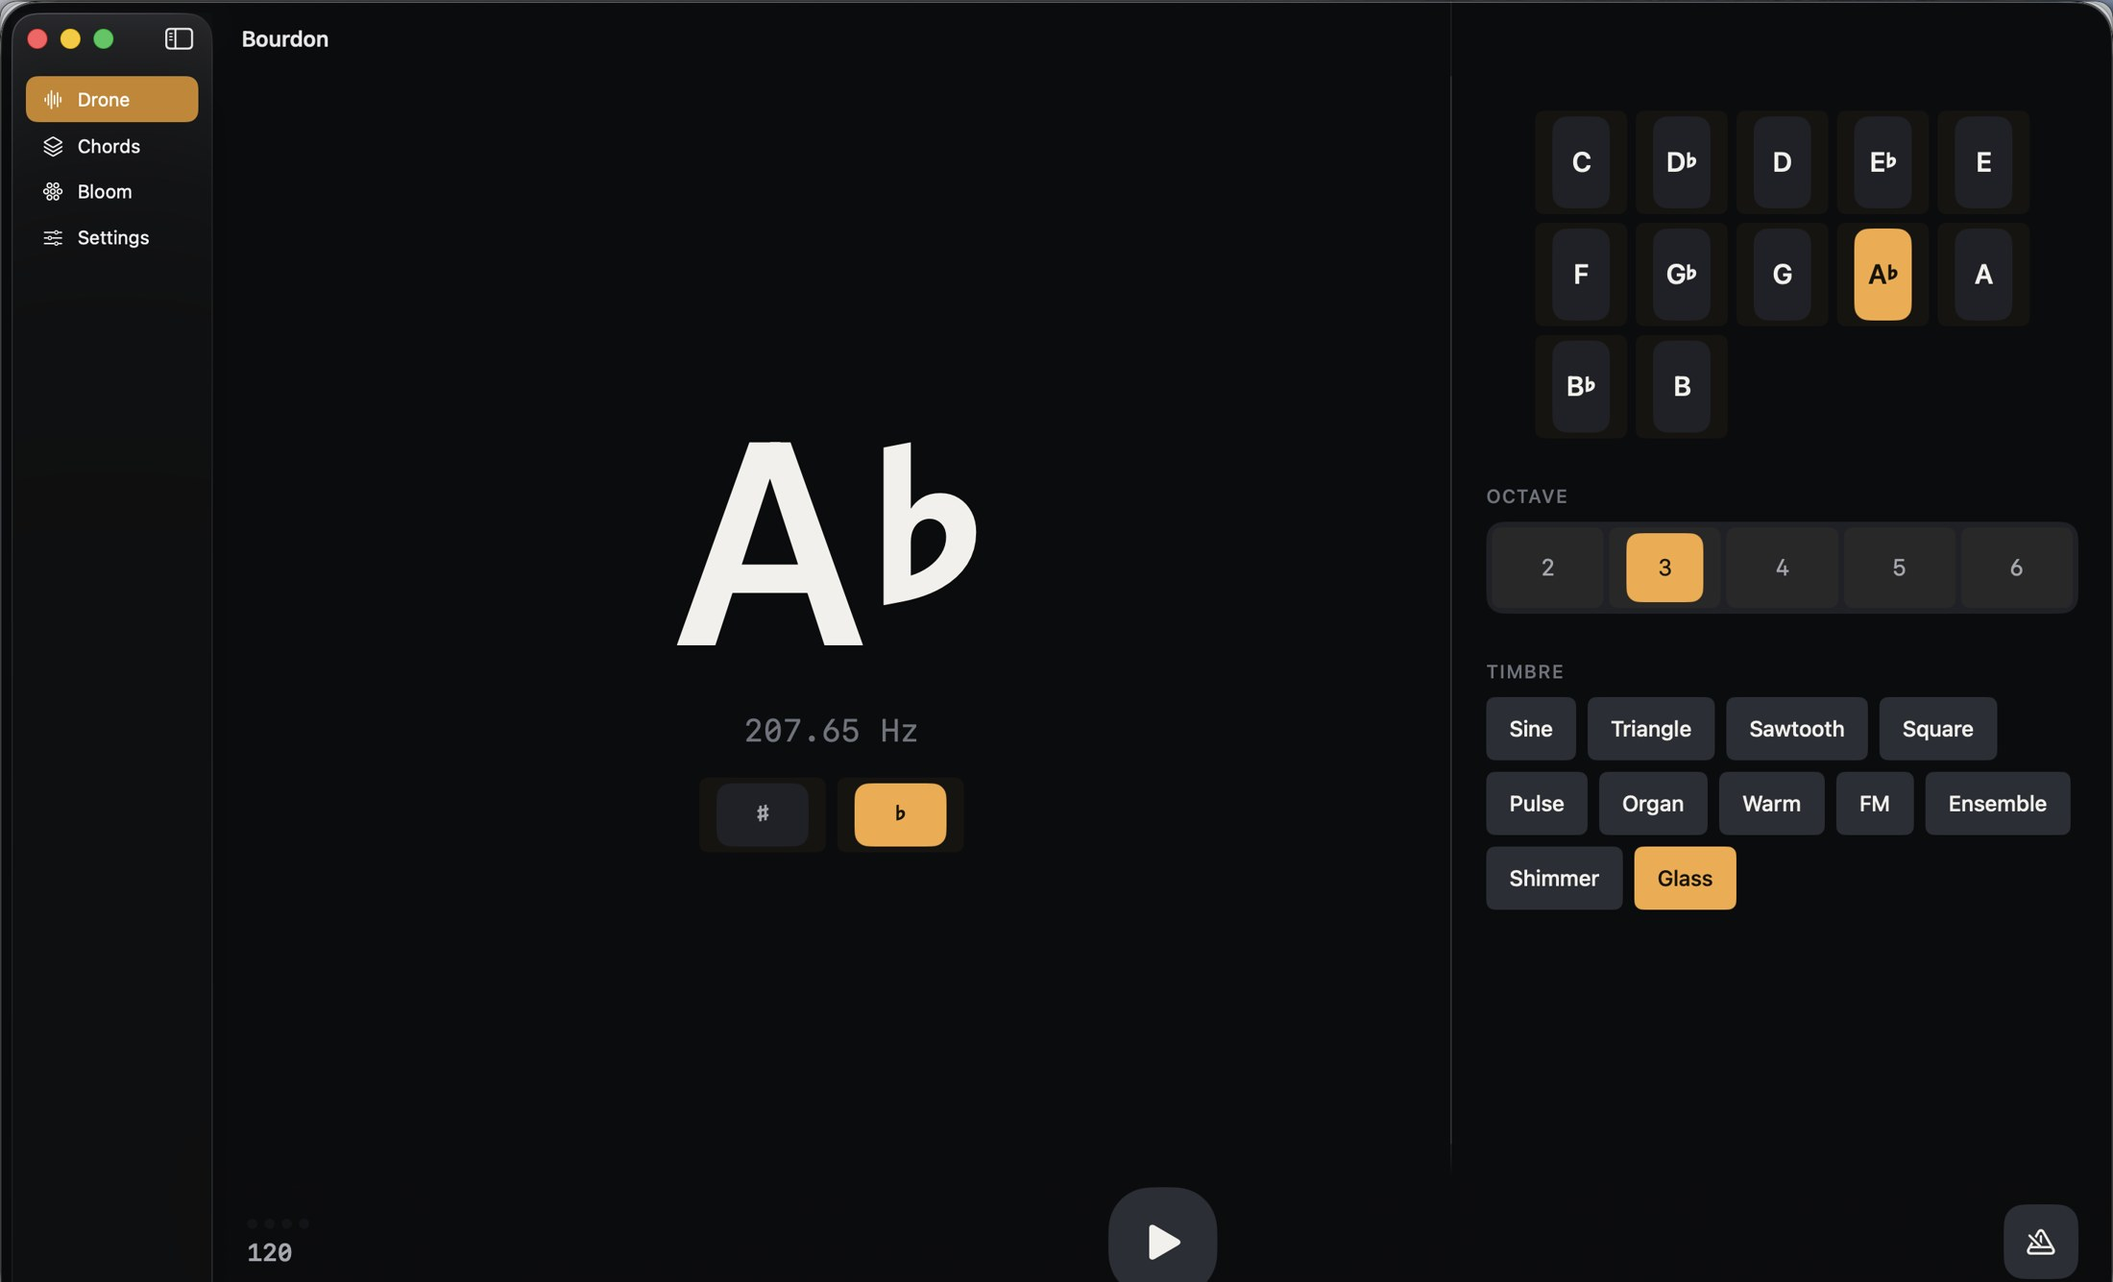
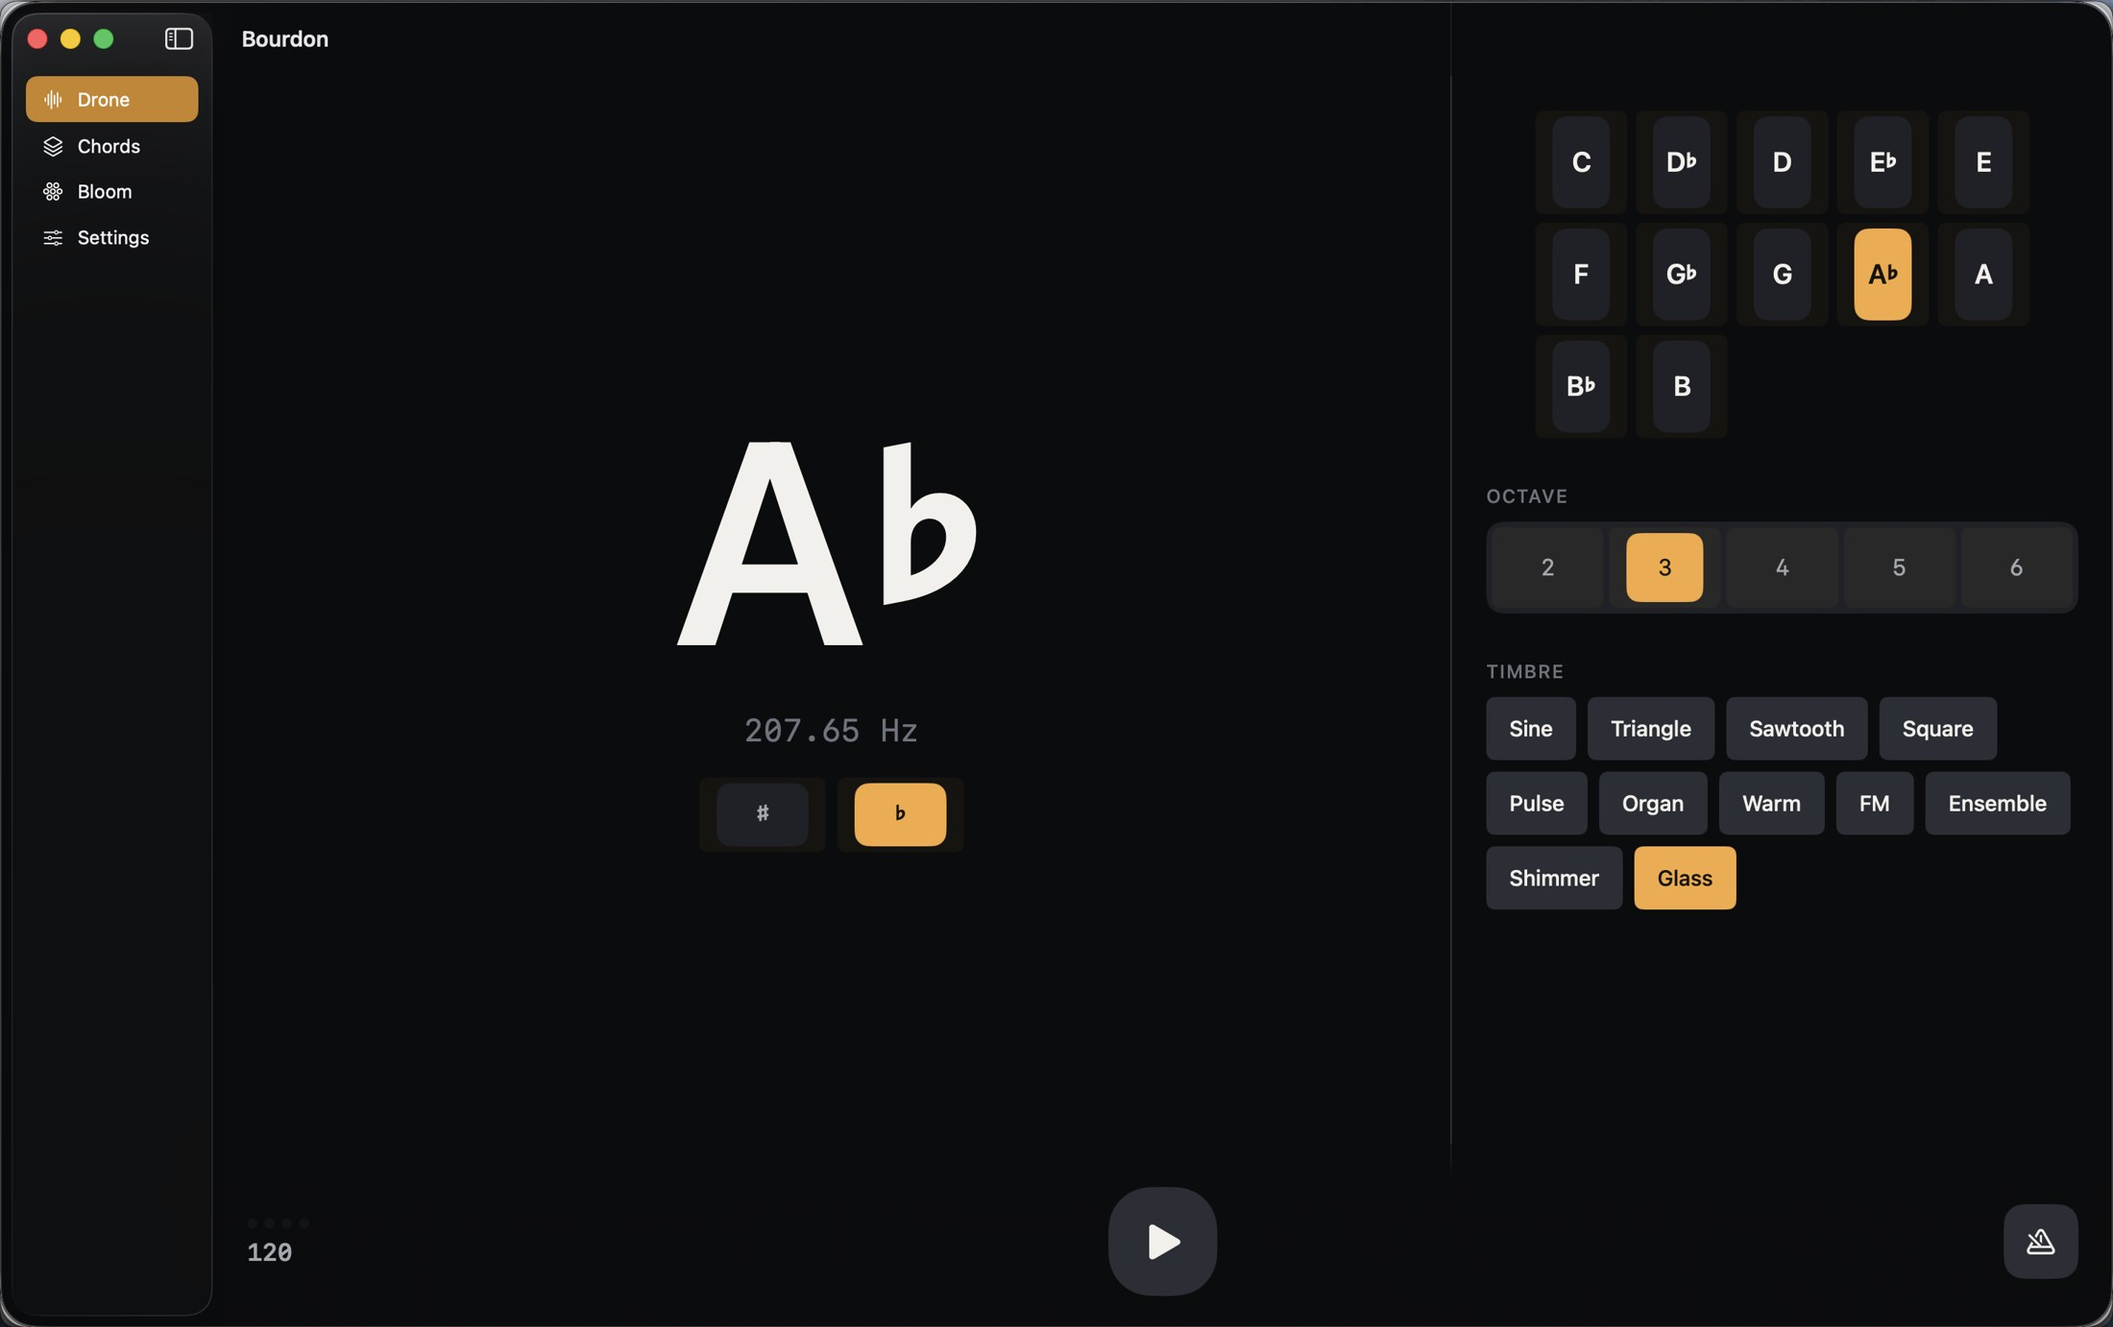
Fix the crop, the price and the count
The Mac screenshots were cut 64px short at the bottom, which took the transport row off every
one of them — I cropped to a bounding box measured on the wrong axis. They now run to the
window's real bottom edge, and the landing-page hero is rebuilt from the corrected crop.

Bourdon is not free. It is one small purchase, priced at launch, with no ads, no subscription,
no in-app purchases and no free tier holding a feature back. The page said "Free" in three
places, including the meta description.

The questions are no longer K7's accordion. Every answer here is two sentences, and hiding two
sentences behind a disclosure asks for a click to save nothing — so they are a two-column grid,
always open, under a different heading. The unused accordion CSS is deleted rather than left
sitting there.

Also: eleven drone timbres, not twelve. The enum has twelve and the drone excludes the piano
arpeggio, which is a chord voice — the screenshot right beside the claim shows eleven.

Claude-Session: https://claude.ai/code/session_01W6vRZs6Q5bzhsr2XMK3UwS

diff --git a/bourdon/index.html b/bourdon/index.html
@@ -3,7 +3,7 @@
 <head>
 <meta charset="UTF-8">
 <title>Bourdon — Drone and chord reference for iPhone, iPad and Mac</title>
-<meta name="description" content="Hold a pitch. Hold a chord. Practise intonation against something that does not move. A drone, 37 chord types in every key, a metronome that can stay silent, and a generative tab that writes itself. No account, no network, free.">
+<meta name="description" content="Hold a pitch. Hold a chord. Practise intonation against something that does not move. A drone, 37 chord types in every key, a metronome that can stay silent, and a generative tab that writes itself. One purchase, no ads, no subscription.">
 <meta name="viewport" content="width=device-width, initial-scale=1">
 <link rel="icon" href="/bourdon/bourdon-icon.png">
 <meta property="og:title" content="Bourdon — Drone and chord reference">
@@ -45,11 +45,11 @@
         that can keep time without making a sound.</p>
       <div class="cta-row">
         <span class="cta"><strong>Coming Soon</strong></span>
-        <span class="cta-note">Free.<br>No account, no subscription.</span>
+        <span class="cta-note">One purchase.<br>No ads, no subscription, no account.</span>
       </div>
       <div class="stats">
         <div class="stat"><b>37</b><span>CHORD TYPES</span></div>
-        <div class="stat"><b>12</b><span>TIMBRES</span></div>
+        <div class="stat"><b>11</b><span>DRONE TIMBRES</span></div>
         <div class="stat"><b>0</b><span>NETWORK CALLS</span></div>
       </div>
     </div>
@@ -65,7 +65,7 @@
       <div class="kicker">DRONE</div>
       <h2>One note, held<br>for as long as you like</h2>
       <p class="body">Pick a pitch and it sounds until you stop it — through a lock, through a
-        backgrounded app, through a whole practice session with the phone on a stand. Twelve timbres,
+        backgrounded app, through a whole practice session with the phone on a stand. Eleven timbres,
         from a bare sine to something with enough body to tune against. The reference pitch is yours
         to set: 415 for baroque, 442 if that is what the room is doing.</p>
       <div class="three" style="grid-template-columns:1fr 1fr">
@@ -195,45 +195,42 @@
 
 <section id="faq">
   <div class="wrap">
-    <div class="kicker">QUESTIONS</div>
-    <h2>Questions worth answering</h2>
-    <div class="faq">
-      <details open>
-        <summary>What does it cost?</summary>
-        <div class="a">Nothing. Bourdon is free, with no subscription and no in-app purchases. It has
-          no server behind it, so there is nothing to charge for keeping running.</div>
-      </details>
-      <details>
-        <summary>What leaves my device?</summary>
-        <div class="a">Nothing at all. Bourdon has no account, no analytics, and no networking code —
-          not disabled, absent. There is no mechanism by which anything could be sent anywhere. Your
-          settings live in the standard preferences store on your own device and are deleted with the
-          app.</div>
-      </details>
-      <details>
-        <summary>Does it keep playing when I switch apps or lock the phone?</summary>
-        <div class="a">Yes. A drone left running on a music stand keeps sounding with the screen off,
-          and what is playing appears in Control Center and on the Lock Screen like any other audio
-          app. A phone call interrupts it and it picks up afterwards.</div>
-      </details>
-      <details>
-        <summary>Can I tune to something other than A=440?</summary>
-        <div class="a">Yes — 415, 432, 440, 442, 446 or 466. Transposing instruments can also set a
-          written pitch, so a B♭ tenor or an E♭ alto sees the note it reads while hearing the pitch
-          that sounds.</div>
-      </details>
-      <details>
-        <summary>Is there a metronome?</summary>
-        <div class="a">Yes, on every screen, and it can be silent. Meter, subdivision, per-beat
-          accents, click patterns and four click sounds — with an independent balance against the
-          tone, because a click under a sustained drone has to sit somewhere deliberate.</div>
-      </details>
-      <details>
-        <summary>Why "Bourdon"?</summary>
-        <div class="a">It is the drone string on a hurdy-gurdy, and the stop on an organ that holds
-          a low sustained pitch under everything else. That is the whole idea of the app: something
-          steady to play against.</div>
-      </details>
+    <div class="kicker">GOOD TO KNOW</div>
+    <h2>The things people ask<br>before they download</h2>
+    <div class="qa">
+      <div>
+        <h3>What does it cost?</h3>
+        <p class="body">A single small purchase, priced at launch. No ads, no subscription, no
+          in-app purchases, and no free tier holding a feature back — you get the whole app.</p>
+      </div>
+      <div>
+        <h3>What leaves my device?</h3>
+        <p class="body">Nothing. There is no account, no analytics, and no networking code in the
+          app — absent rather than switched off. Your settings live on your device and go when it
+          does.</p>
+      </div>
+      <div>
+        <h3>Does it keep playing when I lock the phone?</h3>
+        <p class="body">Yes. A drone on a music stand keeps sounding with the screen off, and what
+          is playing shows in Control Center and on the Lock Screen. A call interrupts it and it
+          resumes after.</p>
+      </div>
+      <div>
+        <h3>Can I tune to something other than 440?</h3>
+        <p class="body">415, 432, 440, 442, 446 or 466. Transposing instruments can set a written
+          pitch too, so a B♭ tenor sees the note it reads while hearing the one that sounds.</p>
+      </div>
+      <div>
+        <h3>Is the metronome any good?</h3>
+        <p class="body">Meter, subdivision, per-beat accents, click patterns, four sounds — and it
+          can run silent. It shares a clock with the chord changes, so a progression lands on the
+          beat rather than near it.</p>
+      </div>
+      <div>
+        <h3>Why "Bourdon"?</h3>
+        <p class="body">The drone string on a hurdy-gurdy, and the organ stop that holds a low pitch
+          under everything else. Which is the whole idea: something steady to play against.</p>
+      </div>
     </div>
   </div>
 </section>

diff --git a/src/bourdon/index.html b/src/bourdon/index.html
@@ -3,7 +3,7 @@
 <head>
 <meta charset="UTF-8">
 <title>Bourdon — Drone and chord reference for iPhone, iPad and Mac</title>
-<meta name="description" content="Hold a pitch. Hold a chord. Practise intonation against something that does not move. A drone, 37 chord types in every key, a metronome that can stay silent, and a generative tab that writes itself. No account, no network, free.">
+<meta name="description" content="Hold a pitch. Hold a chord. Practise intonation against something that does not move. A drone, 37 chord types in every key, a metronome that can stay silent, and a generative tab that writes itself. One purchase, no ads, no subscription.">
 <meta name="viewport" content="width=device-width, initial-scale=1">
 <link rel="icon" href="/bourdon/bourdon-icon.png">
 <meta property="og:title" content="Bourdon — Drone and chord reference">
@@ -45,11 +45,11 @@
         that can keep time without making a sound.</p>
       <div class="cta-row">
         <span class="cta"><strong>Coming Soon</strong></span>
-        <span class="cta-note">Free.<br>No account, no subscription.</span>
+        <span class="cta-note">One purchase.<br>No ads, no subscription, no account.</span>
       </div>
       <div class="stats">
         <div class="stat"><b>37</b><span>CHORD TYPES</span></div>
-        <div class="stat"><b>12</b><span>TIMBRES</span></div>
+        <div class="stat"><b>11</b><span>DRONE TIMBRES</span></div>
         <div class="stat"><b>0</b><span>NETWORK CALLS</span></div>
       </div>
     </div>
@@ -65,7 +65,7 @@
       <div class="kicker">DRONE</div>
       <h2>One note, held<br>for as long as you like</h2>
       <p class="body">Pick a pitch and it sounds until you stop it — through a lock, through a
-        backgrounded app, through a whole practice session with the phone on a stand. Twelve timbres,
+        backgrounded app, through a whole practice session with the phone on a stand. Eleven timbres,
         from a bare sine to something with enough body to tune against. The reference pitch is yours
         to set: 415 for baroque, 442 if that is what the room is doing.</p>
       <div class="three" style="grid-template-columns:1fr 1fr">
@@ -195,45 +195,42 @@
 
 <section id="faq">
   <div class="wrap">
-    <div class="kicker">QUESTIONS</div>
-    <h2>Questions worth answering</h2>
-    <div class="faq">
-      <details open>
-        <summary>What does it cost?</summary>
-        <div class="a">Nothing. Bourdon is free, with no subscription and no in-app purchases. It has
-          no server behind it, so there is nothing to charge for keeping running.</div>
-      </details>
-      <details>
-        <summary>What leaves my device?</summary>
-        <div class="a">Nothing at all. Bourdon has no account, no analytics, and no networking code —
-          not disabled, absent. There is no mechanism by which anything could be sent anywhere. Your
-          settings live in the standard preferences store on your own device and are deleted with the
-          app.</div>
-      </details>
-      <details>
-        <summary>Does it keep playing when I switch apps or lock the phone?</summary>
-        <div class="a">Yes. A drone left running on a music stand keeps sounding with the screen off,
-          and what is playing appears in Control Center and on the Lock Screen like any other audio
-          app. A phone call interrupts it and it picks up afterwards.</div>
-      </details>
-      <details>
-        <summary>Can I tune to something other than A=440?</summary>
-        <div class="a">Yes — 415, 432, 440, 442, 446 or 466. Transposing instruments can also set a
-          written pitch, so a B♭ tenor or an E♭ alto sees the note it reads while hearing the pitch
-          that sounds.</div>
-      </details>
-      <details>
-        <summary>Is there a metronome?</summary>
-        <div class="a">Yes, on every screen, and it can be silent. Meter, subdivision, per-beat
-          accents, click patterns and four click sounds — with an independent balance against the
-          tone, because a click under a sustained drone has to sit somewhere deliberate.</div>
-      </details>
-      <details>
-        <summary>Why "Bourdon"?</summary>
-        <div class="a">It is the drone string on a hurdy-gurdy, and the stop on an organ that holds
-          a low sustained pitch under everything else. That is the whole idea of the app: something
-          steady to play against.</div>
-      </details>
+    <div class="kicker">GOOD TO KNOW</div>
+    <h2>The things people ask<br>before they download</h2>
+    <div class="qa">
+      <div>
+        <h3>What does it cost?</h3>
+        <p class="body">A single small purchase, priced at launch. No ads, no subscription, no
+          in-app purchases, and no free tier holding a feature back — you get the whole app.</p>
+      </div>
+      <div>
+        <h3>What leaves my device?</h3>
+        <p class="body">Nothing. There is no account, no analytics, and no networking code in the
+          app — absent rather than switched off. Your settings live on your device and go when it
+          does.</p>
+      </div>
+      <div>
+        <h3>Does it keep playing when I lock the phone?</h3>
+        <p class="body">Yes. A drone on a music stand keeps sounding with the screen off, and what
+          is playing shows in Control Center and on the Lock Screen. A call interrupts it and it
+          resumes after.</p>
+      </div>
+      <div>
+        <h3>Can I tune to something other than 440?</h3>
+        <p class="body">415, 432, 440, 442, 446 or 466. Transposing instruments can set a written
+          pitch too, so a B♭ tenor sees the note it reads while hearing the one that sounds.</p>
+      </div>
+      <div>
+        <h3>Is the metronome any good?</h3>
+        <p class="body">Meter, subdivision, per-beat accents, click patterns, four sounds — and it
+          can run silent. It shares a clock with the chord changes, so a progression lands on the
+          beat rather than near it.</p>
+      </div>
+      <div>
+        <h3>Why "Bourdon"?</h3>
+        <p class="body">The drone string on a hurdy-gurdy, and the organ stop that holds a low pitch
+          under everything else. Which is the whole idea: something steady to play against.</p>
+      </div>
     </div>
   </div>
 </section>

diff --git a/bourdon/bourdon.css b/bourdon/bourdon.css
@@ -162,18 +162,19 @@ h3 { font-size: 20px; font-weight: 600; margin: 0 0 8px; letter-spacing: -.01em;
 .plat b { display: block; font-size: 16px; }
 .plat span { color: var(--ink3); font-size: 14px; }
 
-/* ---------------------------------------------------------------- faq */
+/* ---------------------------------------------------------------- questions */
 
-.faq { margin-top: 30px; border-top: 1px solid var(--hair); }
-.faq details { border-bottom: 1px solid var(--hair); }
-.faq summary {
-  cursor: pointer; list-style: none; padding: 22px 0;
-  font-size: 18px; font-weight: 500; display: flex; justify-content: space-between; gap: 20px;
+/* A grid of short answers rather than an accordion. Every answer here is two sentences, and
+   hiding two sentences behind a disclosure asks for a click to save nothing. */
+.qa {
+  display: grid; grid-template-columns: repeat(2, 1fr);
+  gap: 34px 46px; margin-top: 44px;
 }
-.faq summary::-webkit-details-marker { display: none; }
-.faq summary::after { content: "+"; color: var(--accent); font-weight: 400; }
-.faq details[open] summary::after { content: "–"; }
-.faq .a { color: var(--ink2); padding: 0 0 24px; max-width: 62ch; }
+.qa h3 { margin-bottom: 10px; }
+.qa h3::before {
+  content: ""; display: block; width: 24px; height: 2px;
+  background: var(--accent); margin-bottom: 14px; border-radius: 2px;
+}
 
 /* ---------------------------------------------------------------- footer */
 
@@ -194,7 +195,7 @@ footer h2 { margin-bottom: 40px; }
   .hero { padding-top: 54px; }
   .hero .wrap, .split { grid-template-columns: 1fr; gap: 40px; }
   .split.flip > :first-child { order: 0; }
-  .three, .plats { grid-template-columns: 1fr; }
+  .three, .plats, .qa { grid-template-columns: 1fr; }
   .nav-links { display: none; }
   section { padding: 68px 0; }
 }

diff --git a/src/bourdon/bourdon.css b/src/bourdon/bourdon.css
@@ -162,18 +162,19 @@ h3 { font-size: 20px; font-weight: 600; margin: 0 0 8px; letter-spacing: -.01em;
 .plat b { display: block; font-size: 16px; }
 .plat span { color: var(--ink3); font-size: 14px; }
 
-/* ---------------------------------------------------------------- faq */
+/* ---------------------------------------------------------------- questions */
 
-.faq { margin-top: 30px; border-top: 1px solid var(--hair); }
-.faq details { border-bottom: 1px solid var(--hair); }
-.faq summary {
-  cursor: pointer; list-style: none; padding: 22px 0;
-  font-size: 18px; font-weight: 500; display: flex; justify-content: space-between; gap: 20px;
+/* A grid of short answers rather than an accordion. Every answer here is two sentences, and
+   hiding two sentences behind a disclosure asks for a click to save nothing. */
+.qa {
+  display: grid; grid-template-columns: repeat(2, 1fr);
+  gap: 34px 46px; margin-top: 44px;
 }
-.faq summary::-webkit-details-marker { display: none; }
-.faq summary::after { content: "+"; color: var(--accent); font-weight: 400; }
-.faq details[open] summary::after { content: "–"; }
-.faq .a { color: var(--ink2); padding: 0 0 24px; max-width: 62ch; }
+.qa h3 { margin-bottom: 10px; }
+.qa h3::before {
+  content: ""; display: block; width: 24px; height: 2px;
+  background: var(--accent); margin-bottom: 14px; border-radius: 2px;
+}
 
 /* ---------------------------------------------------------------- footer */
 
@@ -194,7 +195,7 @@ footer h2 { margin-bottom: 40px; }
   .hero { padding-top: 54px; }
   .hero .wrap, .split { grid-template-columns: 1fr; gap: 40px; }
   .split.flip > :first-child { order: 0; }
-  .three, .plats { grid-template-columns: 1fr; }
+  .three, .plats, .qa { grid-template-columns: 1fr; }
   .nav-links { display: none; }
   section { padding: 68px 0; }
 }
